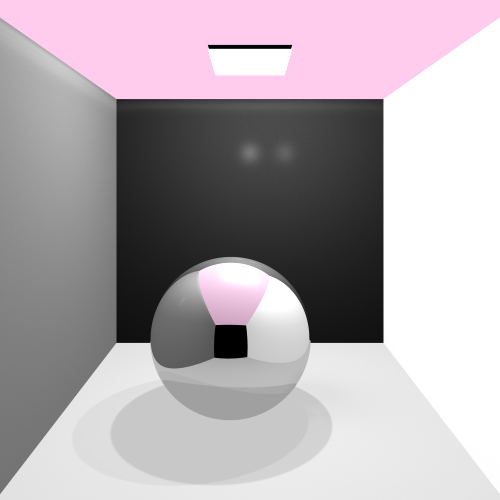
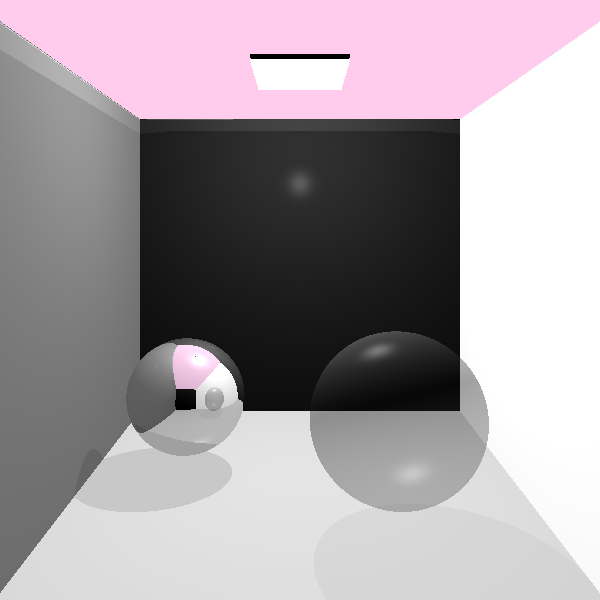
final

diff --git a/unittests/project/picturesTest.java b/unittests/project/picturesTest.java
@@ -236,24 +236,24 @@ public class picturesTest {
                 .setMaterial(new Material().setKd(0.8).setKs(0.8).setShininess(30));
         scene.geometries.add(path);
 
-//        // Create stone spheres along the sides of the path
-//        for (int i = 0; i < numStones; i++) {
-//            double t = (double) i / (numStones - 1); // Parameter to interpolate between path points
-//
-//            double x = -pathWidth / 2 + (t * pathWidth);
-//            double z = -pathLength / 2 + (Math.random() * pathLength);
-//
-//            // Add stones only on the sides of the path
-//            if (x <= -pathWidth / 2 + stoneRadius || x >= pathWidth / 2 - stoneRadius) {
-//                Geometry stone = new Sphere(stoneRadius, new Point(x, -199 + stoneRadius, z))
-//                        .setEmission(new Color(105, 105, 105)) // Dark gray stone
-//                        .setMaterial(new Material().setKd(0.6).setKs(0.4).setShininess(100));
-//                scene.geometries.add(stone);
-//            }
-//        }
+        // Create stone spheres along the sides of the path
+        for (int i = 0; i < numStones; i++) {
+            double t = (double) i / (numStones - 1); // Parameter to interpolate between path points
+
+            double x = -pathWidth / 2 + (t * pathWidth);
+            double z = -pathLength / 2 + (Math.random() * pathLength);
+
+            // Add stones only on the sides of the path
+            if (x <= -pathWidth / 2 + stoneRadius || x >= pathWidth / 2 - stoneRadius) {
+                Geometry stone = new Sphere(stoneRadius, new Point(x, -199 + stoneRadius, z))
+                        .setEmission(new Color(105, 105, 105)) // Dark gray stone
+                        .setMaterial(new Material().setKd(0.6).setKs(0.4).setShininess(100));
+                scene.geometries.add(stone);
+            }
+        }
 
         // Tree trunk
-        Geometry trunk = new Cylinder(new Ray(new Point(800, -200, -1000), new Vector(0, 1, 0)),
+        Geometry trunk = new Cylinder(new Ray(new Point(500, -200, -600), new Vector(0, 1, 0)),
                 300, 40)
                 .setEmission(new Color(139, 69, 19)) // Brown trunk
                 .setMaterial(new Material().setKd(0.6).setKs(0.4).setShininess(100));
@@ -343,17 +343,30 @@ public class picturesTest {
 
     @Test
     public void test_image_AA() {
-        Camera camera = new Camera(
-                new Point(0, 0, 800), new Vector(0, 0, -1), new Vector(0, 1, 0))
+        Camera camera = (new Camera(new Point(300, 0, 800),
+                new Vector(0.0D, 0.0D, -1.0D), new Vector(0.0D, 1.0D, 0.0D)))
                 .setViewPlaneSize(1000, 1000)
-                .setViewPlaneDistance(1000)
-                .useAntiAliasing(true)
-                .setNumOfAARays(10)
-                .setMultithreading(0);
+                .setViewPlaneDistance(800)
+                .useAntiAliasing(true) //set AA
+                .setNumOfAARays(70)
+                .useAdaptive(true) //use adaptive
+                .setMultithreading(5); //use multithreading
 
         Scene scene = this.beautifulPictureScene("test_AA");
 
-        ImageWriter imageWriter = new ImageWriter("testAA", 1000, 1000);
+        double angle = 360d /10;
+        double angleRadians = 2 * Math.PI/10 ;
+
+        double radius = camera.getP0().subtract(Point.ZERO).length();
+
+
+        camera.rotate(0, angle, 0);
+        camera.setP0(
+                Math.sin(angleRadians * (2)) * radius,
+                0,
+                Math.cos(angleRadians * (2)) * radius);
+
+        ImageWriter imageWriter = new ImageWriter("testAAFinal", 600, 600);
         camera.setImageWriter(imageWriter)
                 .setRayTracer(new RayTracerBasic(scene))
                 .renderImage();
@@ -362,12 +375,24 @@ public class picturesTest {
 
     @Test
     public void test_image_SS() {
-        Camera camera = (new Camera(new Point(0.0D, 60.0D, 1000.0D),
+        Camera camera = (new Camera(new Point(0, 0, 800),
                 new Vector(0.0D, 0.0D, -1.0D), new Vector(0.0D, 1.0D, 0.0D)))
-                .setViewPlaneSize(200, 200)
-                .setViewPlaneDistance(200);//.setMultithreading(0);
+                .setViewPlaneSize(1000, 1000)
+                .setViewPlaneDistance(150);//.setMultithreading(0);
 
         Scene scene = this.beautifulPictureScene("test_SS");
+
+        double angle = 360d /10;
+        double angleRadians = 2 * Math.PI/10 ;
+
+        double radius = camera.getP0().subtract(Point.ZERO).length();
+
+
+        camera.rotate(0, angle, 0);
+        camera.setP0(
+                Math.sin(angleRadians * (2)) * radius,
+                0,
+                Math.cos(angleRadians * (2)) * radius);
 
         camera.setImageWriter(new ImageWriter("TestSS", 600, 600))
                 .setRayTracer((new RayTracerBasic(scene))
@@ -378,14 +403,26 @@ public class picturesTest {
 
     @Test
     public void test_Glossy() {
-        Camera camera = (new Camera(new Point(0.0D, 60.0D, 1000.0D),
+        Camera camera = (new Camera(new Point(0.0D, 0.0D, 700.0D),
                 new Vector(0.0D, 0.0D, -1.0D), new Vector(0.0D, 1.0D, 0.0D))).
-                setViewPlaneSize(200, 200)
-                .setViewPlaneDistance(250.0D).setMultithreading(4);
+                setViewPlaneSize(1000, 1000)
+                .setViewPlaneDistance(700.0D).setMultithreading(4);
 
         Scene scene = this.beautifulPictureScene("test_G");
 
-        camera.setImageWriter(new ImageWriter("TestGlossy", 700, 700))
+        double angle = 360d /10;
+        double angleRadians = 2 * Math.PI/10 ;
+
+        double radius = camera.getP0().subtract(Point.ZERO).length();
+
+
+        camera.rotate(0, angle, 0);
+        camera.setP0(
+                Math.sin(angleRadians * (2)) * radius,
+                0,
+                Math.cos(angleRadians * (2)) * radius);
+
+        camera.setImageWriter(new ImageWriter("TestGlossyFinal", 700, 700))
                 .setRayTracer((new RayTracerBasic(scene))
                         .useGlossiness(true).setNumOfGlossinessRays(100))
                 .renderImage()
@@ -393,21 +430,67 @@ public class picturesTest {
     }
 
 
+//    @Test
+//    public void PR08() {
+//        Camera camera = new Camera(new Point(0, -2000, 500),
+//                new Vector(0, 1, 0), new Vector(0, 0, 1))
+//                .setViewPlaneSize(200, 200)
+//                .setViewPlaneDistance(100)
+//                .useAntiAliasing(true) //set AA
+//                .setNumOfAARays(10)
+//                .setMultithreading(5);
+//
+//        Scene scene = this.beautifulPictureScene("test_PR08");
+//
+//        double angle = 360d / 10;
+//        double angleRadians = 2 * Math.PI / 10;
+//
+//        double radius = camera.getP0().subtract(Point.ZERO).length();
+//
+//
+//        camera.rotate(0, angle, 0);
+//        camera.setP0(
+//                Math.sin(angleRadians * (2)) * radius,
+//                0,
+//                Math.cos(angleRadians * (2)) * radius);
+//
+//        camera.setImageWriter(new ImageWriter("PR08", 500, 500))
+//                .setRayTracer(new RayTracerBasic(scene)
+//                        .useSoftShadow(true).setNumOfSSRays(10).setRadiusBeamSS(10) //use soft shadow
+//                        .useGlossiness(true).setNumOfGlossinessRays(10)) //use glossiness
+//                .renderImage()
+//                .writeToImage();
+//    }
+
     @Test
-    public void PR08() {
-        Camera camera = new Camera(new Point(0, -2000, 500),
-                new Vector(0, 1, 0), new Vector(0, 0, 1))
-                .setViewPlaneSize(200, 200)
-                .setViewPlaneDistance(100)
+    public void PR09() {
+        Camera camera = (new Camera(new Point(300, 0, 800),
+                new Vector(0.0D, 0.0D, -1.0D), new Vector(0.0D, 1.0D, 0.0D)))
+                .setViewPlaneSize(1000, 1000)
+                .setViewPlaneDistance(800)
                 .useAntiAliasing(true) //set AA
-                .setNumOfAARays(10);
+                .setNumOfAARays(70)
+                .useAdaptive(true) //use adaptive
+                .setMultithreading(5); //use multithreading
 
-        Scene scene = this.beautifulPictureScene("test_PR08");
+        Scene scene = this.beautifulPictureScene("final");
 
-        camera.setImageWriter(new ImageWriter("PR08", 500, 500))
+        double angle = 360d /10;
+        double angleRadians = 2 * Math.PI/10 ;
+
+        double radius = camera.getP0().subtract(Point.ZERO).length();
+
+
+        camera.rotate(0, angle, 0);
+        camera.setP0(
+                Math.sin(angleRadians * (2)) * radius,
+                0,
+                Math.cos(angleRadians * (2)) * radius);
+
+        camera.setImageWriter(new ImageWriter("final", 600, 600))
                 .setRayTracer(new RayTracerBasic(scene)
-                        .useSoftShadow(true).setNumOfSSRays(10).setRadiusBeamSS(10) //use soft shadow
-                        .useGlossiness(true).setNumOfGlossinessRays(10)) //use glossiness
+                        .useSoftShadow(true).setNumOfSSRays(100).setRadiusBeamSS(50.0D) //use soft shadow
+                        .useGlossiness(true).setNumOfGlossinessRays(100)) //use glossiness
                 .renderImage()
                 .writeToImage();
     }
@@ -416,16 +499,32 @@ public class picturesTest {
     public void PR081() {
         Camera camera = new Camera(new Point(0, -2000, 500),
                 new Vector(0, 1, 0), new Vector(0, 0, 1))
-                .setViewPlaneSize(700, 700).setViewPlaneDistance(650)
-                .useAntiAliasing(true) //set AA
-                .setNumOfAARays(10);
+                .setViewPlaneSize(700, 700).setViewPlaneDistance(650);
 
         Scene scene = this.initial_image_7("test_PR08");
 
-        camera.setImageWriter(new ImageWriter("PR08", 500, 500))
+        camera.setImageWriter(new ImageWriter("PR08", 600, 600))
+                .setRayTracer(new RayTracerBasic(scene))
+                .renderImage()
+                .writeToImage();
+
+
+    }
+
+    @Test
+    public void PR08image() {
+        Camera camera = new Camera(new Point(0, -2000, 500),
+                new Vector(0, 1, 0), new Vector(0, 0, 1))
+                .setViewPlaneSize(200, 200).setViewPlaneDistance(200)
+                .setNumOfAARays(30)
+                .setMultithreading(5);
+
+        Scene scene = this.initial_image_7("test_PR08");
+
+        camera.setImageWriter(new ImageWriter("PR08image", 600, 600))
                 .setRayTracer(new RayTracerBasic(scene)
-                        .useSoftShadow(true).setNumOfSSRays(10).setRadiusBeamSS(10) //use soft shadow
-                        .useGlossiness(true).setNumOfGlossinessRays(10)) //use glossiness
+                .useSoftShadow(true).setNumOfSSRays(30).setRadiusBeamSS(30) //use soft shadow
+                .useGlossiness(true).setNumOfGlossinessRays(30)) //use glossiness
                 .renderImage()
                 .writeToImage();
 
